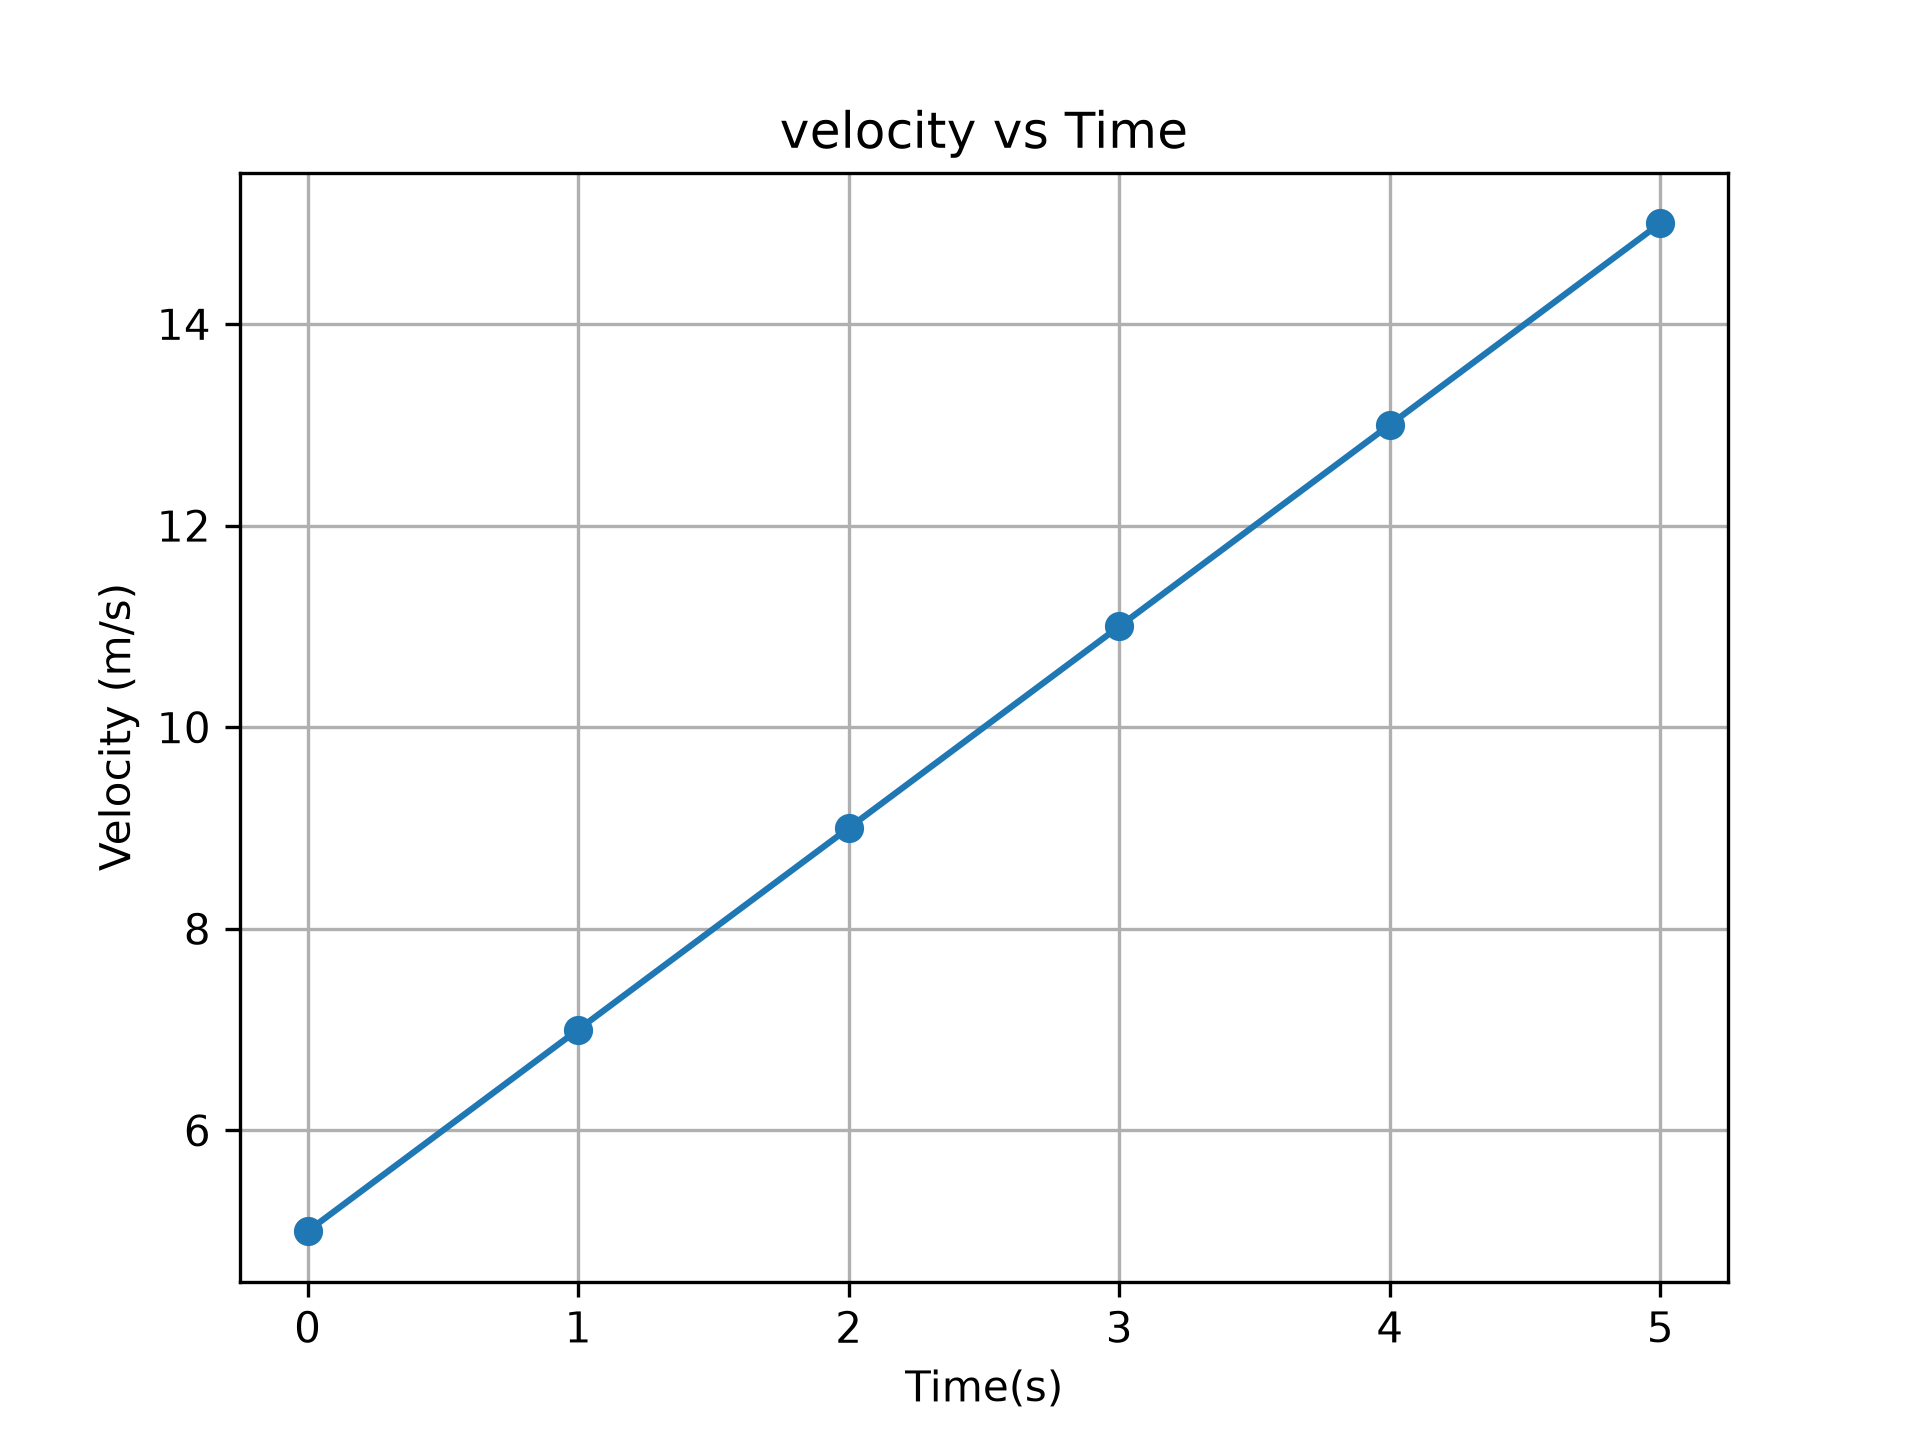
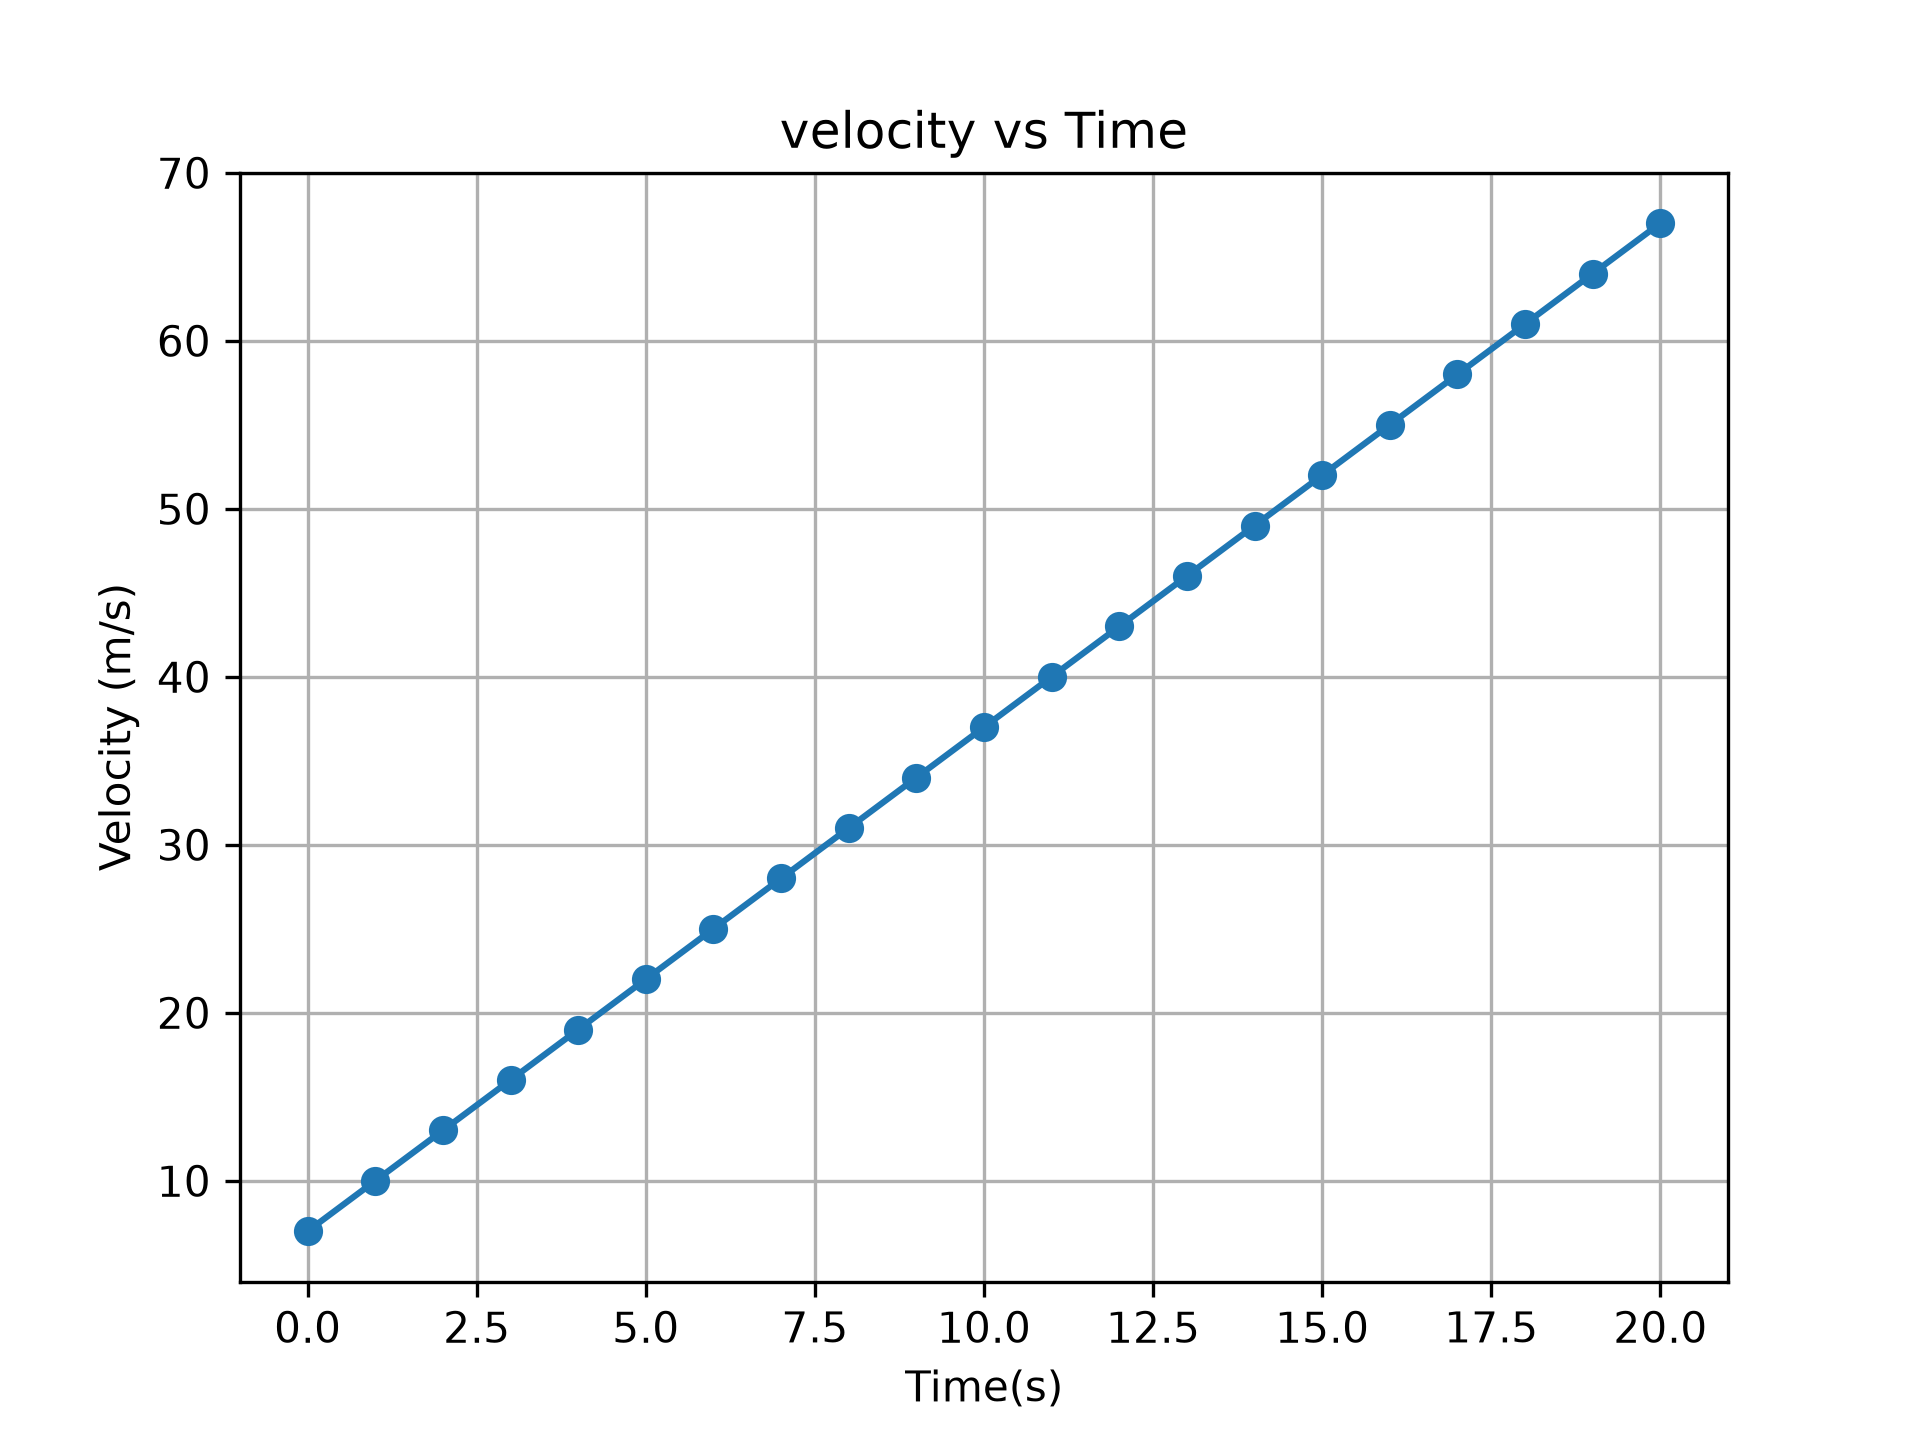
Improve velocity graph calculation

diff --git a/velocity_graph.py b/velocity_graph.py
@@ -1,9 +1,9 @@
-
+print("I AM RUNNING THIS FILE")
 import matplotlib.pyplot as plt
-u=5
-a=2
+u=7
+a=3
 
-time=[0,1,2,3,4,5]
+time=[0,1,2,3,4,5,6,7,8,9,10,11,12,13,14,15,16,17,18,19,20]
 velocity=[]
 for t in time:
     v= u + a*t
